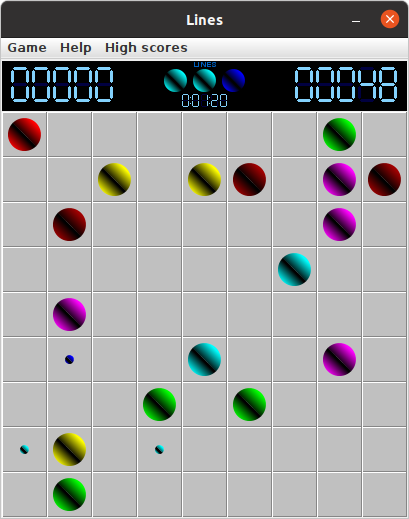
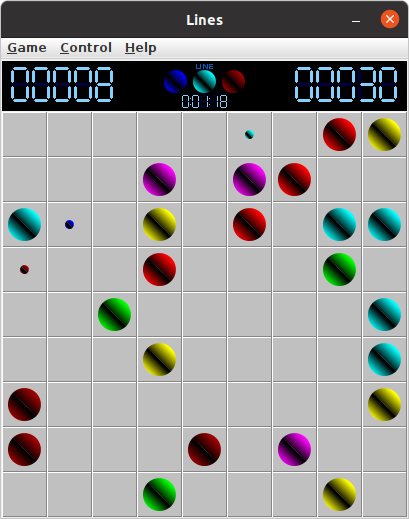
Changed menus & game info board

diff --git a/src/thbt/webng/com/GameFrame.java b/src/thbt/webng/com/GameFrame.java
@@ -48,6 +48,7 @@ public class GameFrame extends JFrame {
 
 	private void addGameMenu() {
 		JMenu gameMenu = new JMenu("Game");
+		gameMenu.setMnemonic('G');
 
 		JMenuItem newMenuItem;
 		gameMenu.add(newMenuItem = new JMenuItem("New", 'N'));
@@ -56,8 +57,6 @@ public class GameFrame extends JFrame {
 			saveHighScore();
 			gamePanel.getGameBoard().newGame();
 		});
-
-		gameMenu.addSeparator();
 
 		JMenuItem newLinesMenuItem = new JMenuItem("New Lines Game", 'L');
 		gameMenu.add(newLinesMenuItem);
@@ -90,6 +89,8 @@ public class GameFrame extends JFrame {
 			gamePanel.repaint();
 		});
 
+		gameMenu.addSeparator();
+
 		JMenuItem saveGameMenuItem = new JMenuItem("High Scores", 'H');
 		gameMenu.add(saveGameMenuItem);
 		saveGameMenuItem.addActionListener((e) -> {
@@ -101,6 +102,7 @@ public class GameFrame extends JFrame {
 
 	private void addControlMenu() {
 		JMenu controlMenu = new JMenu("Control");
+		controlMenu.setMnemonic('C');
 
 		JMenuItem saveGameMenuItem = new JMenuItem("Save Game", 'S');
 		controlMenu.add(saveGameMenuItem);
@@ -134,6 +136,7 @@ public class GameFrame extends JFrame {
 
 	private void addHelpMenu() {
 		JMenu helpMenu = new JMenu("Help");
+		helpMenu.setMnemonic('H');
 
 		JMenuItem aboutMenuItem = new JMenuItem("About", 'A');
 		helpMenu.add(aboutMenuItem);

diff --git a/src/thbt/webng/com/game/status/GameInfoBoard.java b/src/thbt/webng/com/game/status/GameInfoBoard.java
@@ -22,10 +22,10 @@ public class GameInfoBoard {
 		score.setTop(top + (height - score.getHeight()) / 2);
 
 		clock.setLeft(left + (width - clock.getWidth()) / 2);
-		clock.setTop(35);
+		clock.setTop(36);
 
 		nextBallBoard.setLeft(left + (width - nextBallBoard.getWidth()) / 2);
-		nextBallBoard.setTop(10);
+		nextBallBoard.setTop(11);
 		nextBallBoard.setNextColors(new Color[] { Color.BLACK, Color.BLACK, Color.BLACK });
 
 		clockTimer.start();
@@ -82,7 +82,7 @@ public class GameInfoBoard {
 		int w = g.getFontMetrics().stringWidth(gameTypeString);
 
 		g.setColor(new Color(0, 96, 191));
-		g.drawString(gameTypeString, left + (width - w) / 2, top + 6);
+		g.drawString(gameTypeString, left + (width - w) / 2, top + 8);
 	}
 
 	private int left = 1;

diff --git a/src/thbt/webng/com/game/status/DigitalClock.java b/src/thbt/webng/com/game/status/DigitalClock.java
@@ -17,7 +17,7 @@ public class DigitalClock {
 
 		int tmp = digits[0].getHeight() / 4;
 		int tmpLeft;
-
+		
 		tmpLeft = left + digits[4].getWidth() + 1;
 		g.fillRect(tmpLeft, top + tmp, 1, 1);
 		g.fillRect(tmpLeft, top + 3 * tmp, 1, 1);
